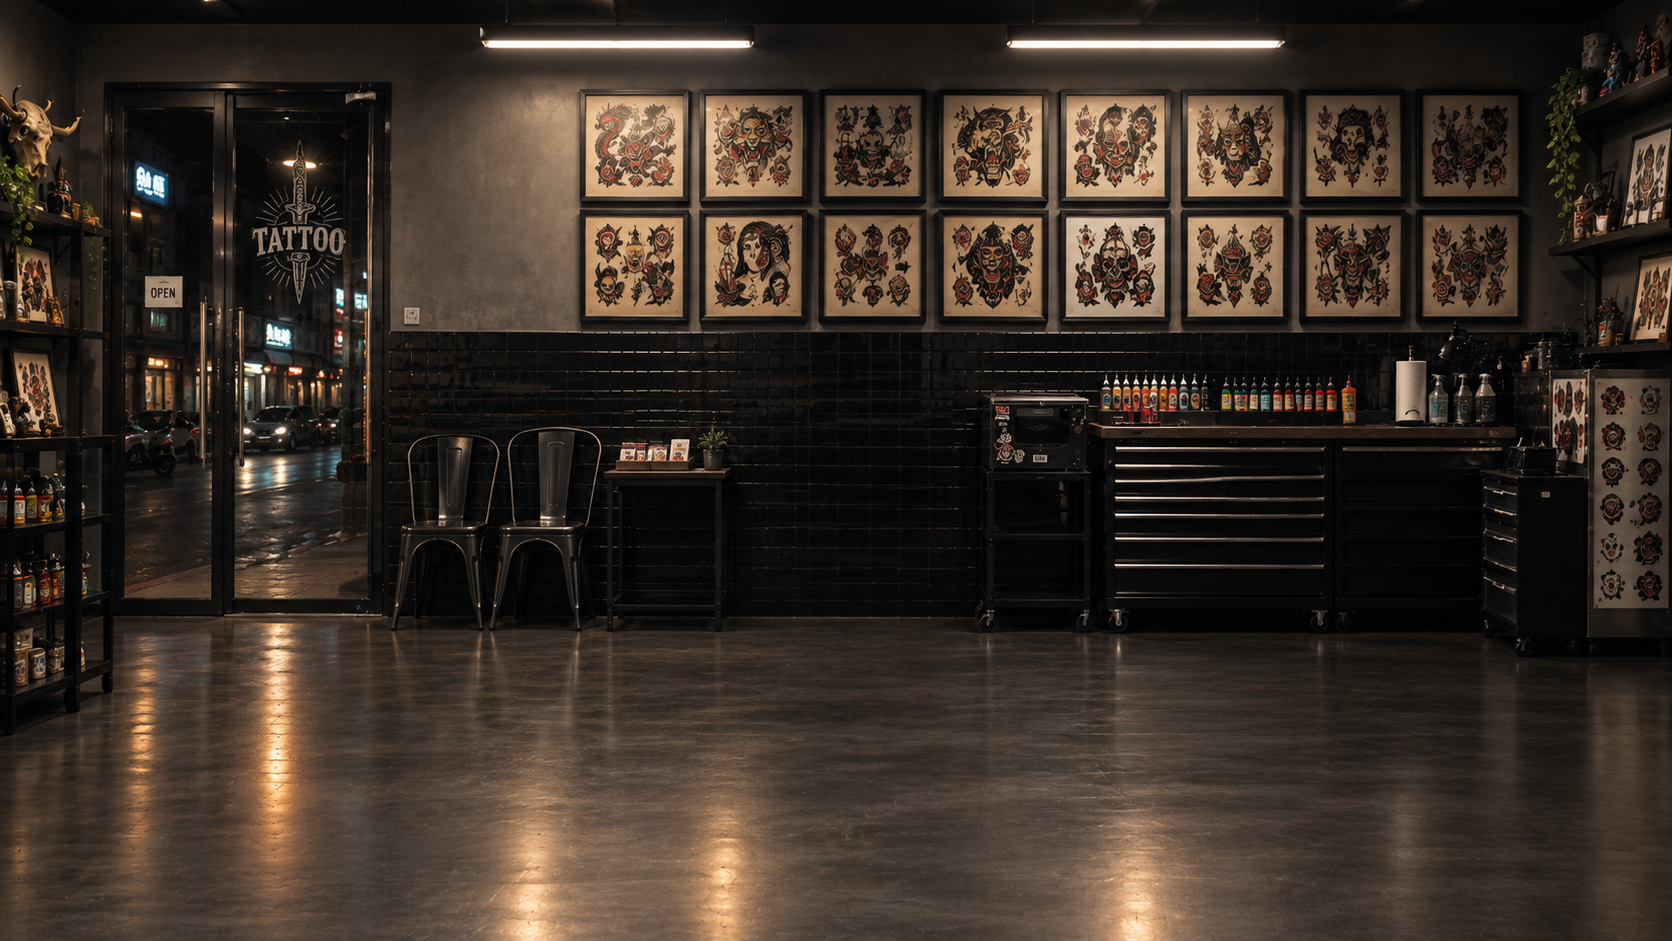
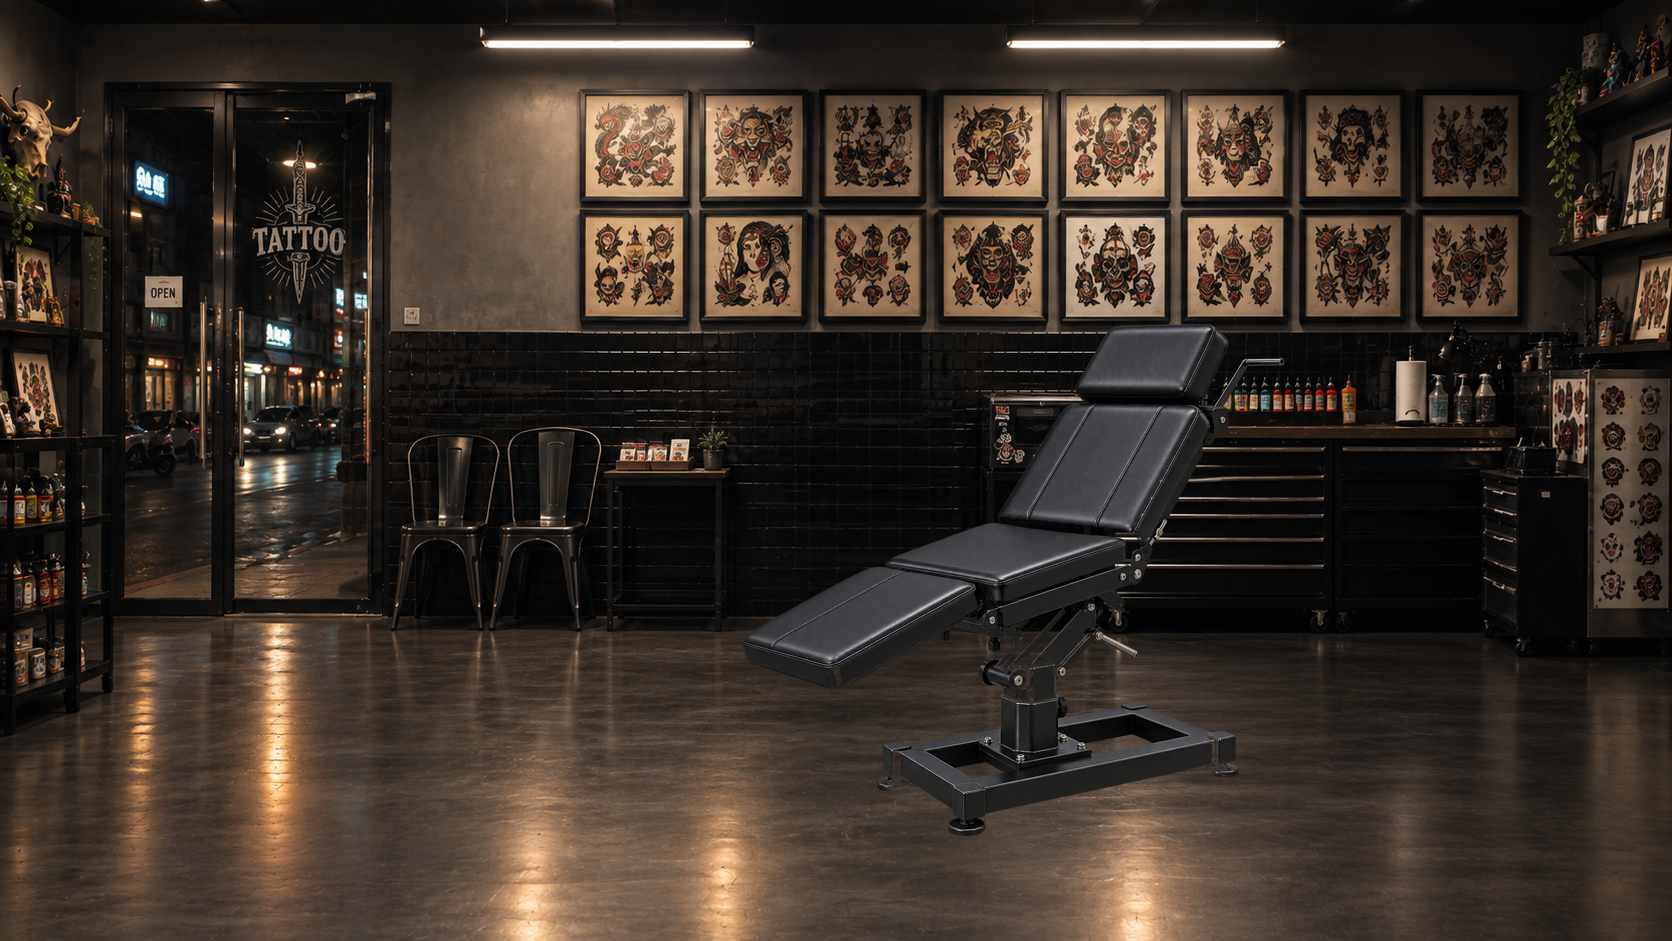
刺青店背景補上真的躺椅畫面
kc 丟的躺椅獨照(攝影棚黑底打光)用 black-to-alpha.py 去背,合成烤進
tattoo-shop.png 本身,不是走 mei-desk.png 那套即時疊圖(椅子是固定
家具,不需要獨立 TWEAK 面板)。位置抓在門口小桌跟工具檯中間的空地,
跟既有的 chair 判定區座標大致對上,不用重新量。?v= 加到 2 破快取。

瀏覽器裡用 __dbg.warp('tattoo') 測過畫面正確、互動點還摸得到。

Changed region(s): [[0.4354, 0.339, 0.7775, 0.8937]]

diff --git a/prototypes/game.html b/prototypes/game.html
@@ -2574,13 +2574,25 @@ const TATTOO_FALLBACK = {
    座標用 `grid.png`(暫存,裁圖疊 100px 格線那招,跟輪盤黑紅核對/校門
    座標當初同一套手法)肉眼讀出來的,換算公式跟其他照片場景一樣
    `logical = native * (640/1672)`。
-   **這張照片裡沒有拍到刺青椅**(取景是門口/等候區/圖牆/工具檯那一側,
-   椅子在鏡頭外的空地)——`chair` 判定區還是放在照片裡那塊看得到的空地板
-   (門口小桌跟工具櫃中間那段),互動摸得到,只是暫時沒有真的椅子畫面
-   可以看,跟 `SCHOOL_PHOTO` 一開始也是先接判定區、`school-empty-desk.png`
-   後來才補上是同一種「先求互動邏輯對,美術分階段補」的做法。沒有另外
-   補碰撞框——`WALK_N` 本身就擋住往牆裡走,這張照片沒有像灰模版那樣有
-   一個實際畫出來的家具形狀需要擋。 */
+   **✅ 補刺青椅(同一天再一輪,kc:「用這個啊」,丟的是稍早那組傢俱參考圖
+   裡右邊那張大圖,躺椅獨照)**——原本這張店面照片沒拍到刺青椅,`chair`
+   判定區踩在空地板上,跟 `SCHOOL_PHOTO` 一開始只接判定區、
+   `school-empty-desk.png` 後來才補上是同一種「先求互動邏輯對,美術分階段
+   補」做法。這輪把那張躺椅獨照裁出來(`tools/black-to-alpha.py` 去背,
+   背景是攝影棚黑底+邊緣柔光暈,不是純黑,邊緣殘留一圈很淡的暈邊,但這張
+   店面照片本身色調也偏暗,實際疊上去幾乎看不出來,不用再處理)、疊圖
+   合成回 `tattoo-shop.png` 裡(用 Python/PIL 一次性合成,不是像
+   `mei-desk.png` 那樣在 game.html 裡用 `MEI_DESK_TWEAK` 那套即時疊圖
+   ——這裡選擇直接烤進背景圖本身,因為刺青椅在照片裡是固定不動的家具,
+   跟小美那種要獨立控制位置/濾鏡的角色疊圖不是同一類東西,烤進背景更
+   簡單,不用多開一組 TWEAK 面板)。位置抓在門口小桌(x0~730)跟工具檯
+   (x740~1490)中間那段空地,跟 `chair` 判定區(邏輯座標 x:287~414,
+   換算回照片原生座標 x:749~1081)大致對得上,沒有精算到像素對齊——跟
+   這個專案疊圖位置「先抓大概,kc 玩起來覺得不對再調」的一貫做法一樣。
+   沒有補碰撞框——`WALK_N` 本身就擋住往牆裡走,這張照片沒有像灰模版那樣
+   有一個實際畫出來的家具形狀需要擋,躺椅是烤進背景的靜態圖,角色一律
+   蓋在它上面(跟 bedroom 床/書桌那批背景家具同一個既有簡化,不是這輪
+   新增的妥協)。 */
 /* 座標肉眼實測踩過一個坑(2026-08-28):`flash`(圖牆)原本 x:221~592 整條
    都給滿版寬度,結果跟後面 `chair`(x:287~414)/`bench`(x:418~571)的 x
    範圍整段疊在一起——`IN.near` 判定是「陣列裡第一個符合的」,`flash`
@@ -2608,7 +2620,7 @@ tattooShopImg.onload = () => {
   if(tattooShopImg.naturalWidth){ TATTOO = TATTOO_PHOTO; TATTOO_COLLIDERS = TATTOO_COLLIDERS_PHOTO; }
   paintTattooBackdrop();
 };
-tattooShopImg.src = '../assets/bg/tattoo-shop.png?v=1';
+tattooShopImg.src = '../assets/bg/tattoo-shop.png?v=2';
 
 /* 遊藝場(2026-08-26,kc:「遊藝場先做,裡面可以玩一些小遊戲,可以加情緒」
    +「真的賭博,情緒一定＋ 金錢賭」)——只有灰模,還沒有照片版(跟 store/

diff --git a/docs/DESIGN_NOTES.md b/docs/DESIGN_NOTES.md
@@ -5093,3 +5093,21 @@ rAF 在這個環境裡常常卡住(見上面幾節反覆提到的「瀏覽器分
 在瀏覽器裡完整測過:`warp('tattoo')` 即時進場、真的照片背景渲染出來、
 六個互動點(`__dbg.setIndoor()`+`updateIndoor()` 逐一測)都摸到正確的
 `id`、`openIndoorSpot('chair')` 正確叫出師傅對話,console 全程無錯誤。
+
+**✅ 補刺青椅實際畫面(2026-08-28,同一天再一輪,kc:「用這個啊」)**——
+kc 丟的是稍早那組傢俱參考圖裡右邊那張大圖(躺椅獨照,黑底攝影棚打光)。
+`tools/black-to-alpha.py` 去背(背景是攝影棚黑底+邊緣柔光暈,不是純黑,
+邊緣殘留一圈很淡的暈邊,但這張店面照片本身色調也偏暗,實際疊上去幾乎
+看不出來,不用再處理),Python/PIL 一次性合成疊回 `tattoo-shop.png`
+本身——不是像 `mei-desk.png` 那樣在 `game.html` 開一組 `TWEAK` 面板即時
+疊圖,因為刺青椅在照片裡是固定不動的家具,跟小美那種要獨立控制位置/
+濾鏡的角色疊圖不是同一類東西,直接烤進背景更簡單。位置抓在門口小桌
+跟工具檯中間那段空地,跟 `chair` 判定區(邏輯座標换算回照片原生座標
+約 x:749~1081)大致對得上,沒有精算到像素對齊,跟這個專案疊圖位置
+「先抓大概,kc 玩起來覺得不對再調」的一貫做法一樣。沒有補碰撞框(理由
+跟上面同一則筆記)。圖檔案名沒換,`?v=` 從 1 加到 2 破快取。
+
+在瀏覽器裡用 `__dbg.warp('tattoo')` 測過:椅子畫面正確顯示、`chair`
+互動點還是摸得到(邏輯座標?沒有跟著椅子畫面調整,原本讀出來的
+`x:287~414,y0:290,y1:338` 剛好落在椅子腳靠/坐墊那一段,不用重量),
+console 無錯誤。
